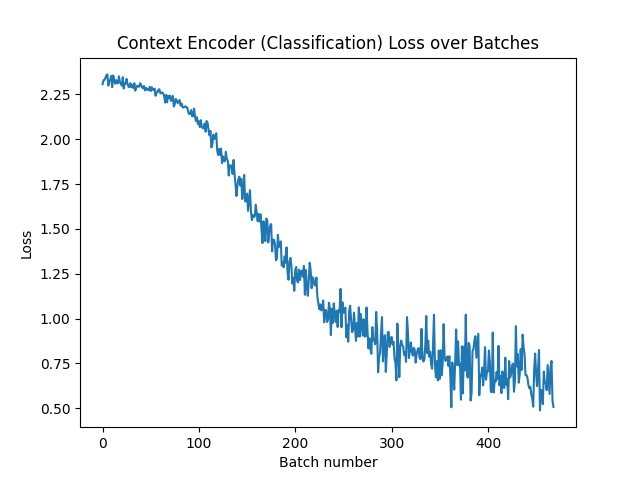
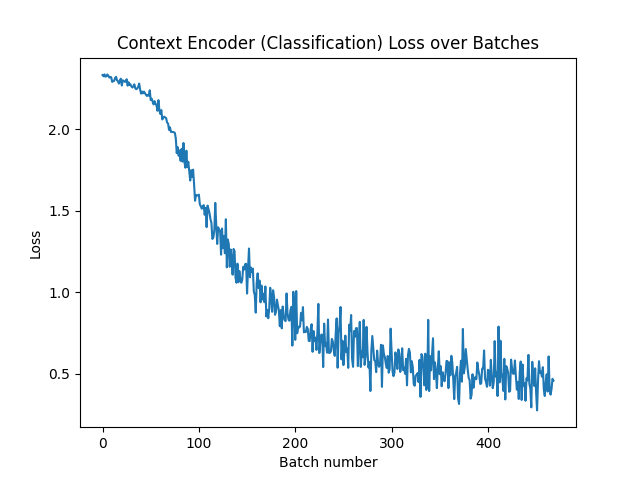
~13k params experiment

diff --git a/Development/MNIST_demo.py b/Development/MNIST_demo.py
@@ -10,11 +10,11 @@ from SCAConv_dev import SCAConv
 class ContextNN(nn.Module):
     def __init__(self, c_len):
         super(ContextNN, self).__init__()
-        self.reduce1 = nn.Conv2d(1, 1, kernel_size=3, padding=1, stride=2)
-        self.reduce2 = nn.Conv2d(1, 1, kernel_size=3, padding=1, stride=2)
+        self.reduce1 = nn.Conv2d(1, 2, kernel_size=3, padding=1, stride=2)
+        self.reduce2 = nn.Conv2d(2, 4, kernel_size=3, padding=1, stride=2)
         self.fc_context = nn.Sequential(
             nn.Flatten(),
-            nn.Linear(1 * 7 * 7, c_len))
+            nn.Linear(4 * 7 * 7, c_len))
         self.out = nn.Linear(c_len, 10)
 
     def encode(self, x):
@@ -44,9 +44,9 @@ class SCACNN(nn.Module):
         self.relu = nn.ReLU()
         self.fc_out = nn.Sequential(
             nn.Flatten(),
-            nn.Linear(2 * 7 * 7, 128),
+            nn.Linear(2 * 7 * 7, 64),
             nn.ReLU(),
-            nn.Linear(128, 10))
+            nn.Linear(64, 10))
     
 
     def forward(self, x):

diff --git a/Development/MNIST_control.py b/Development/MNIST_control.py
@@ -13,9 +13,9 @@ class SimpleCNN(nn.Module):
         self.relu = nn.ReLU()
         self.fc_out = nn.Sequential(
             nn.Flatten(),
-            nn.Linear(4 * 7 * 7, 128),
+            nn.Linear(4 * 7 * 7, 64),
             nn.ReLU(),
-            nn.Linear(128, 10))
+            nn.Linear(64, 10))
     
 
     def forward(self, x):
